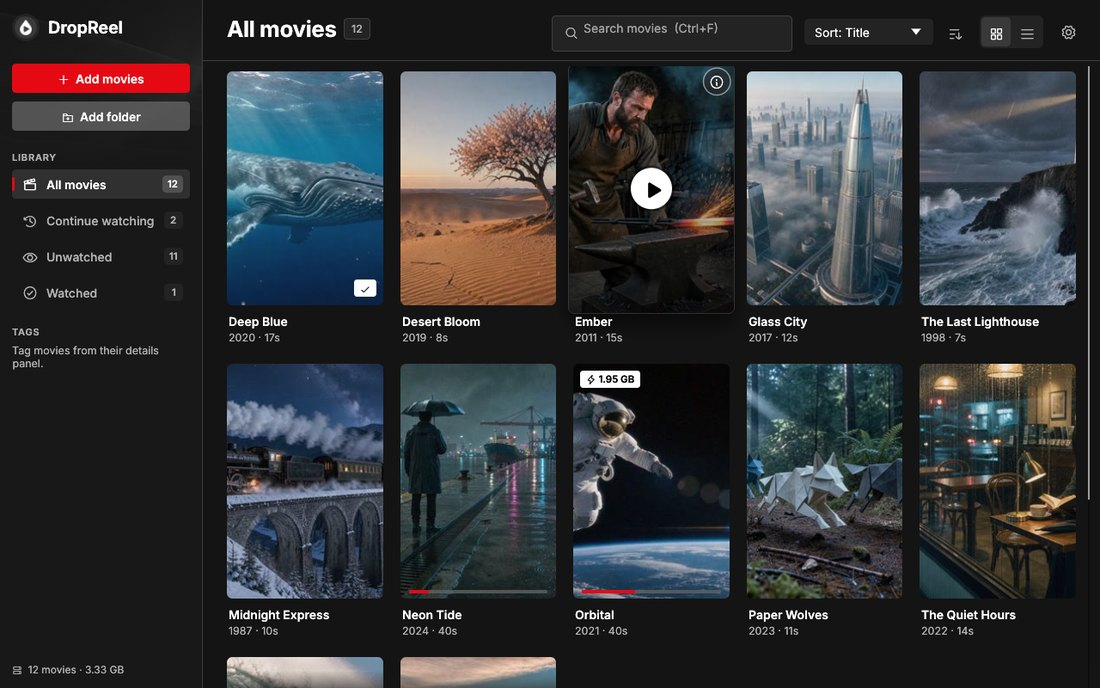
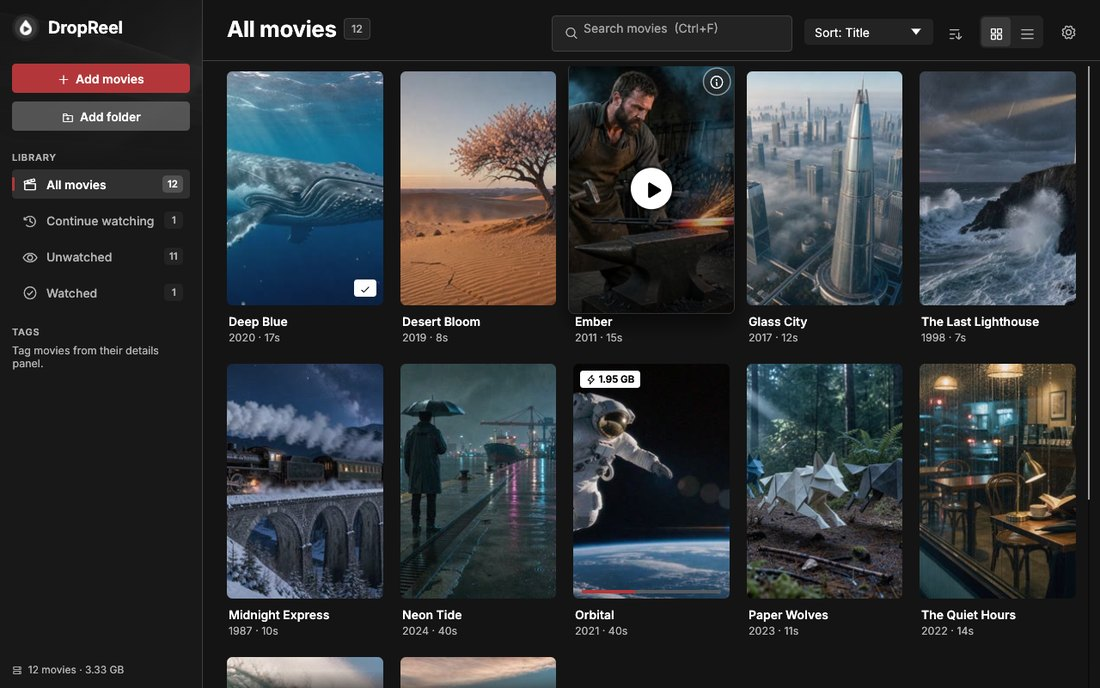
Calmer brick red
Replace Netflix red (#E50914) with a quieter brick red (#B3373A) for
primary buttons, progress and the current-shelf marker, and a deeper
brick (#8F2A2D) for red text on the light theme. Retook the README
screenshots.

Claude-Session: https://claude.ai/code/session_014CcLC17rZd5My8K96q63uv

Changed region(s): [[0.0, 0.0916, 0.1855, 0.1526], [0.3709, 0.8547, 0.4945, 0.8852], [0.5255, 0.8547, 0.5873, 0.8852]]

diff --git a/src/app/theme.rs b/src/app/theme.rs
@@ -52,7 +52,7 @@ pub struct Palette {
 }
 
 /// The colour scheme, after Netflix: a near-black page, slightly lighter panels, white text with
-/// a soft grey for secondary text, and one red for primary actions, progress and the current
+/// a soft grey for secondary text, and one brick red for primary actions, progress and the current
 /// selection. Warnings and success use white; red also marks errors and destructive actions.
 pub mod ramp {
     use super::Color32;
@@ -71,9 +71,9 @@ pub mod ramp {
     pub const N50: Color32 = Color32::from_gray(245);
     pub const WHITE: Color32 = Color32::WHITE;
 
-    /// Netflix red, and the deeper red Netflix uses for pressed and text-on-white states.
-    pub const RED: Color32 = Color32::from_rgb(229, 9, 20);
-    pub const RED_DEEP: Color32 = Color32::from_rgb(178, 7, 16);
+    /// A calm brick red, and a deeper one for red text on white.
+    pub const RED: Color32 = Color32::from_rgb(179, 55, 58);
+    pub const RED_DEEP: Color32 = Color32::from_rgb(143, 42, 45);
 }
 
 /// Corner radii: tight, like Netflix's controls and cards.
